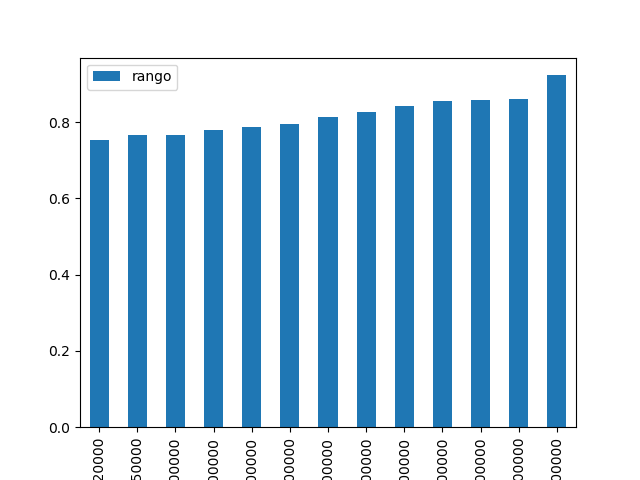
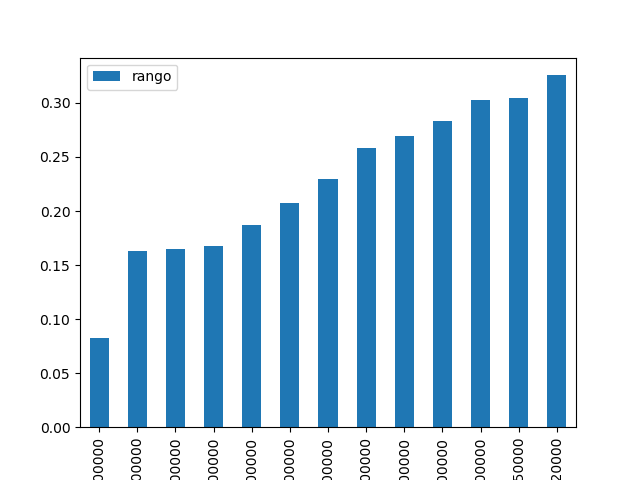
Revert "Merge branch 'main' of https://github.com/GCidon/Steam-Games-Users-Analysis into main"
This reverts commit e9b110479fcfbef0635f56212ddfb1fd57911ad7, reversing
changes made to b7f776bbd19d47967825a107d2fa44ebf6342d70.

diff --git a/Cosas de ventas/VentasRatings.py b/Cosas de ventas/VentasRatings.py
@@ -35,7 +35,7 @@ dfpositive = dfpositive.withColumnRenamed('owners', 'OWN')
 
 dfrango = dfpositive.join(dfnegative, dfpositive.OWN == dfnegative.owners, how = 'full')
 
-dfrango = dfrango.withColumn('rango',dfrango['avg(positive_ratings)']/(dfrango['avg(positive_ratings)']+dfrango['avg(negative_ratings)']))
+dfrango = dfrango.withColumn('rango',dfrango['avg(negative_ratings)']/dfrango['avg(positive_ratings)'])
 
 dfrango= dfrango.select('owners','rango').orderBy('rango')
 
